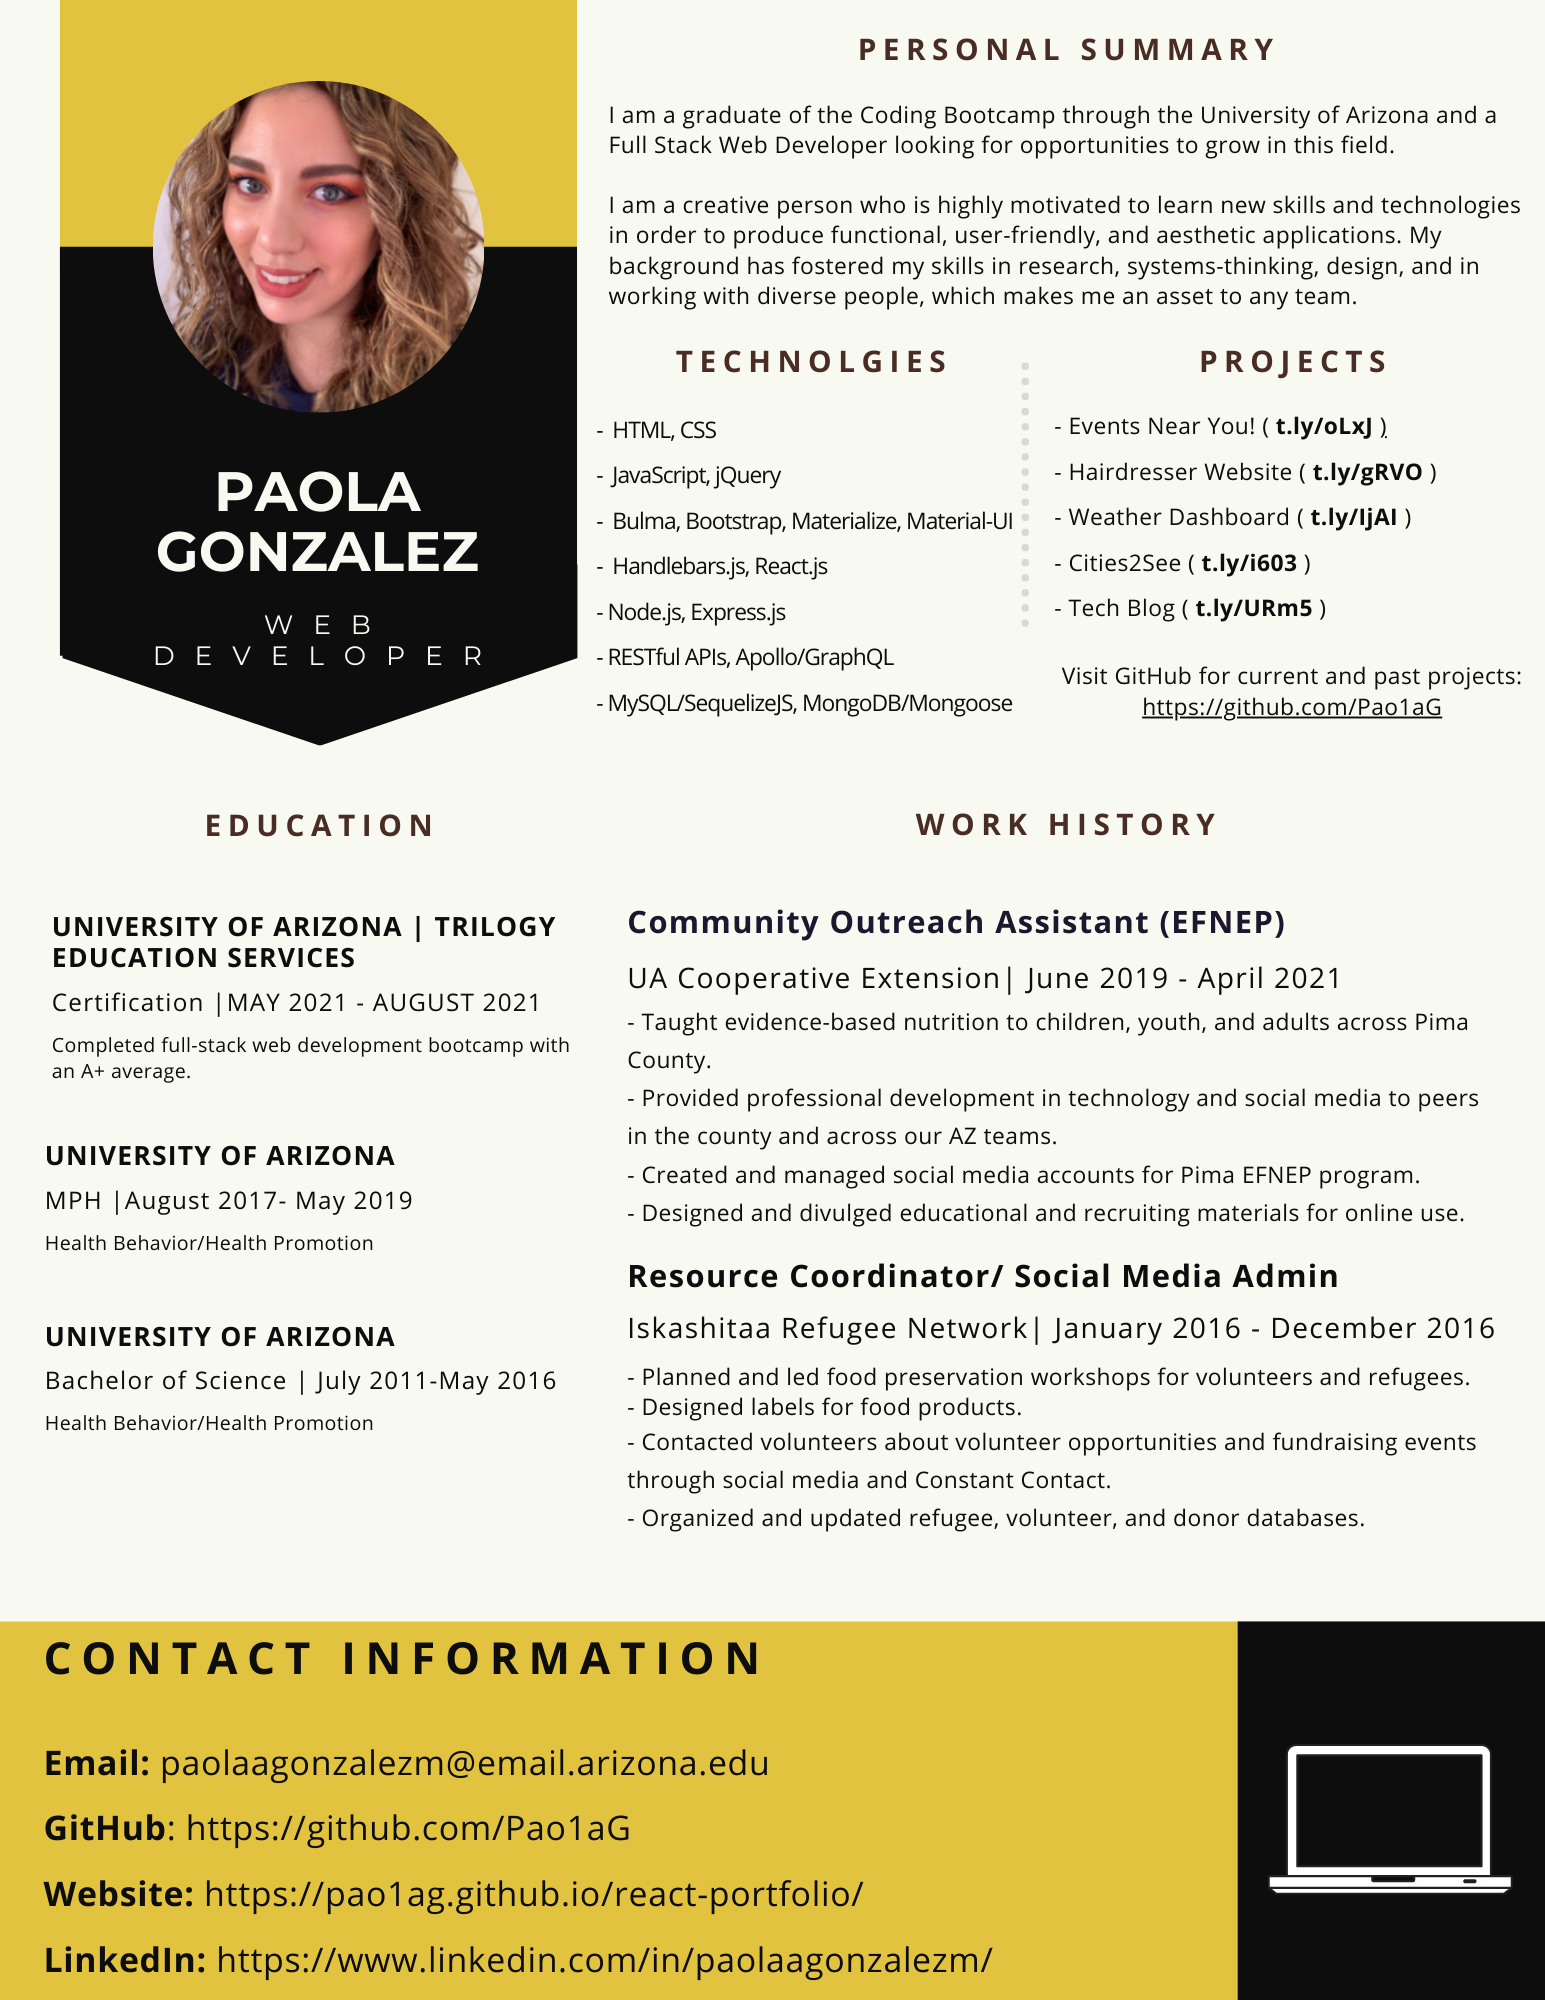
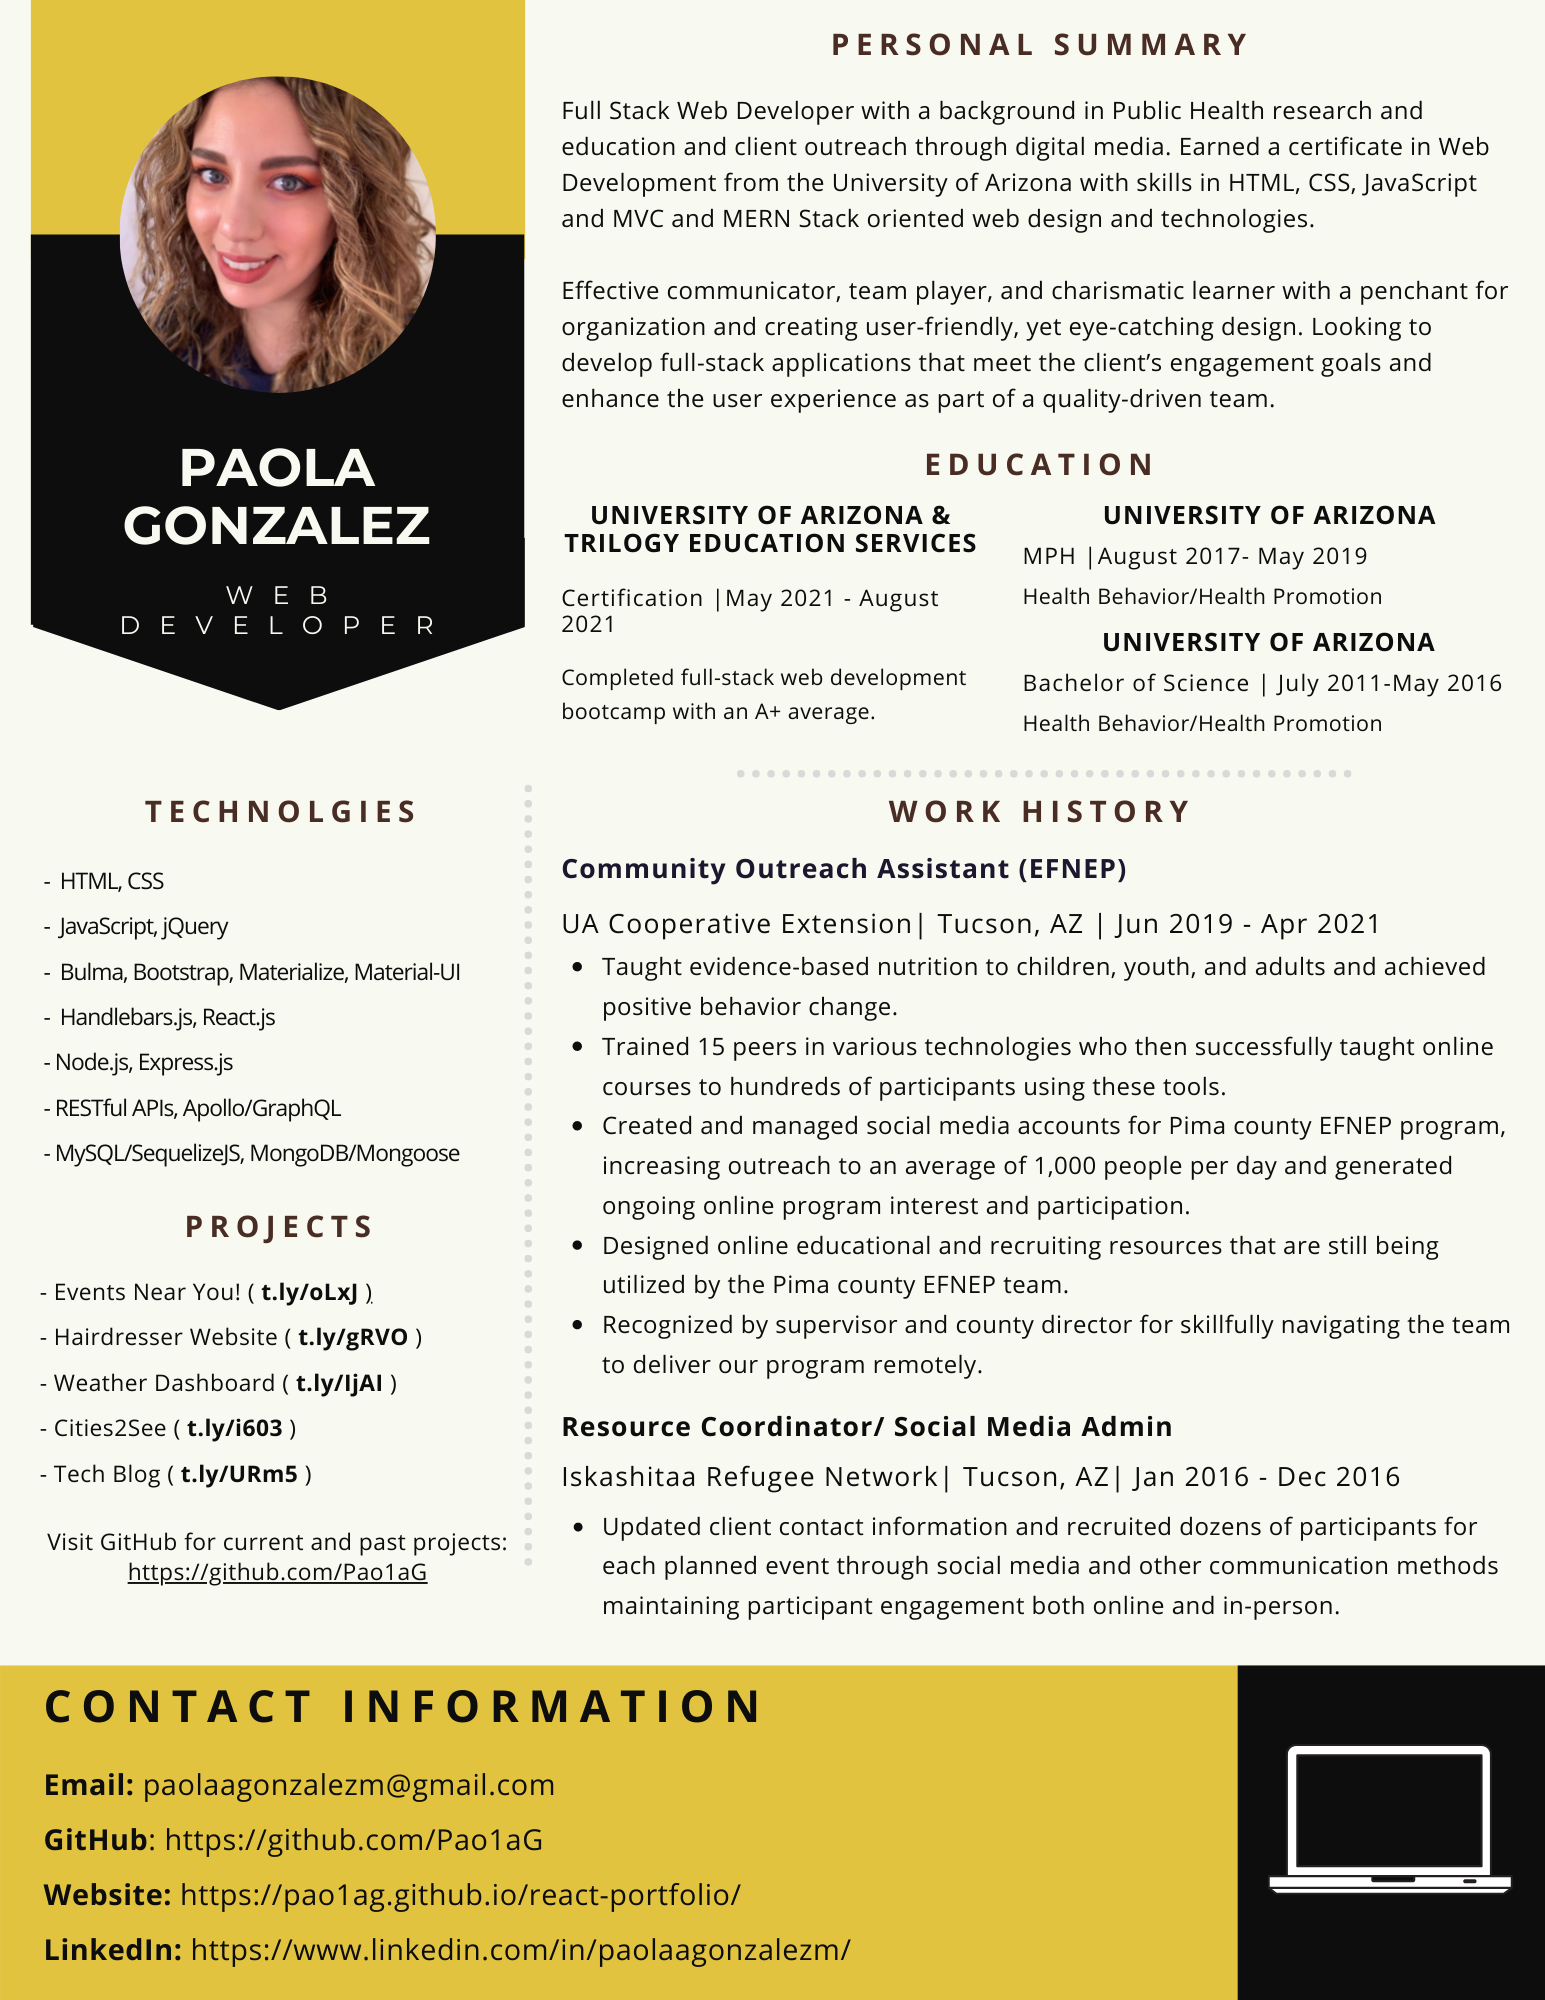
Updated resume based on CMS feedback

Changed region(s): [[0.0, 0.403, 1.0, 0.992], [0.0, 0.0, 0.9631, 0.372]]

diff --git a/src/components/pages/About.js b/src/components/pages/About.js
@@ -12,8 +12,7 @@ function About() {
                     <img src="images/profile-pic.jpg" className="responsive-img" alt=""/>
                 </div>
                 <div className="col m6 s12">
-                    <p className="flow-text">Welcome to my Portfolio! My name is Paola Gonzalez and I am a graduate of the Trilogy Coding Bootcamp through the University of Arizona (UArizona).</p>
-                    <p className="flow-text"> I am a Full Stack Web Developer with skills in HTML, CSS, JavaScript and MVC and MERN Stack-oriented web design and technologies. My aim is to create MERN Stack applications that meet the client’s goals and enhance the user experience by leveraging my technical, professional, and interpersonal skills as part of a quality-driven team.</p>
+                    <p className="flow-text"> I am a Full Stack Web Developer with skills in HTML, CSS, JavaScript and MVC and MERN Stack-oriented web design and technologies. My aim is to create MERN Stack applications that meet the client’s goals and enhance the user experience by leveraging my technical, professional, and interpersonal skills as part of a quality-driven team. Recently earned a Certificate in Full Stack Web Development from the University of Arizona (UArizona)</p>
                     <p className="flow-text">Before I took the step to delve into the exciting world of coding, I studied Public Health at UArizona earning both a Bachelor of Science and a Masters degree. </p>
                     <p className="flow-text"> Throughout my career, I have served my community through projects that utilized my skills in communication, organization, and creativity. When I worked as a Community Nutrition Educator, I designed educational materials to teach over Zoom and co-directed, filmed, and edited videos for our participants. I have also managed and maintained the social media and online outreach materials of different organizations. </p>
                     <p className="flow-text">All roads have lead me here... The time spent studying, researching, designing, and collaborating with people of many different backgrounds has strengthened my interpersonal and technical skills and has inspired me to take on coding projects such as the ones you will see here.</p>

diff --git a/src/components/pages/ContactInfo.js b/src/components/pages/ContactInfo.js
@@ -10,11 +10,10 @@ function ContactInfo() {
                     <h4>Email</h4>
                     <div className="card brown lighten-5">
                         <div className="card-content center-align">
-                            <p className="flow-text">paolaagonzalezm@email.arizona.edu</p>
                             <p className="flow-text">paolaagonzalezm@gmail.com</p>
                         </div>
                         <div className="card-action">
-                            <a href="mailto:paolaagonzalezm@email.arizona.edu" target="_blank" rel="noreferrer">Email Me</a>
+                            <a href="mailto:paolaagonzalezm@gmail.com" target="_blank" rel="noreferrer">Email Me</a>
                         </div>
                     </div>
                 </div>
